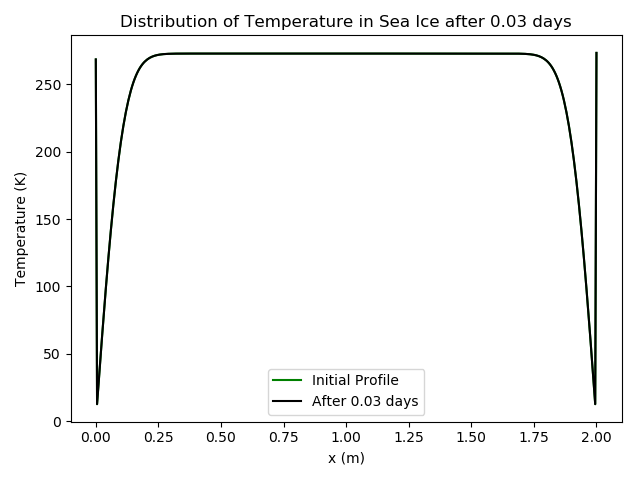
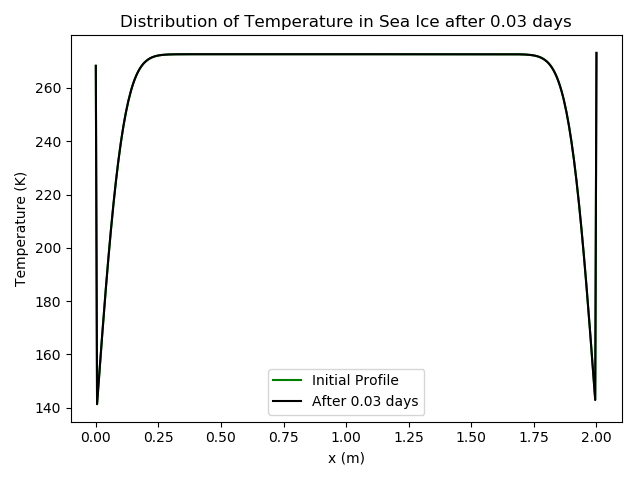
updates

diff --git a/crank-nicolson-solver/simple_crank_nicolson_iceheat.py b/crank-nicolson-solver/simple_crank_nicolson_iceheat.py
@@ -84,8 +84,8 @@ air_temp_list = []
 
 #first, clear the folder with the images to make room for new ones
 os.chmod('D:\Coursework\APC 523 Numerical Algorithms\HeatEquation\crank-nicolson-solver\giffiles',stat.S_IRWXO)
-import shutil
-shutil.rmtree('D:\Coursework\APC 523 Numerical Algorithms\HeatEquation\crank-nicolson-solver\giffiles')
+#import shutil
+#shutil.rmtree('D:\Coursework\APC 523 Numerical Algorithms\HeatEquation\crank-nicolson-solver\giffiles')
 
 #folder = "giffiles"
 #filelist = [f for f in os.listdir(folder)]
@@ -97,14 +97,14 @@ for i in range(0,nt):
     # time in seconds to hours on a 24-hour clock will be used for radiation function
     print(f"i={i}/{nt}, hr={(i*dt/3600)%24:.4f}")
        
-    #Now set the top root as the new BC for Tsoln
-    u[0]=air_temp((i+1)*dt)
-    
-    #Make sure the bottom BC is still 0 degrees C
-    u[-1]=273.15
-    
-    b[0]=air_temp(0.0)*r
-    b[-1]=273.15*r
+#    #Now set the top root as the new BC for Tsoln
+#    u[0]=air_temp((i+1)*dt)
+#    
+#    #Make sure the bottom BC is still 0 degrees C
+#    u[-1]=273.15
+#    
+#    b[0]=air_temp(0.0)*r
+#    b[-1]=273.15*r
 
     # Run through the FTCS with these BC
     u[1:-1] = np.linalg.solve(A,rhs)
